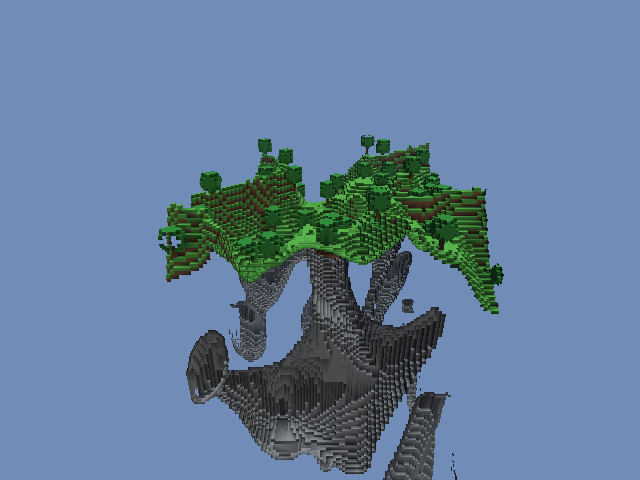
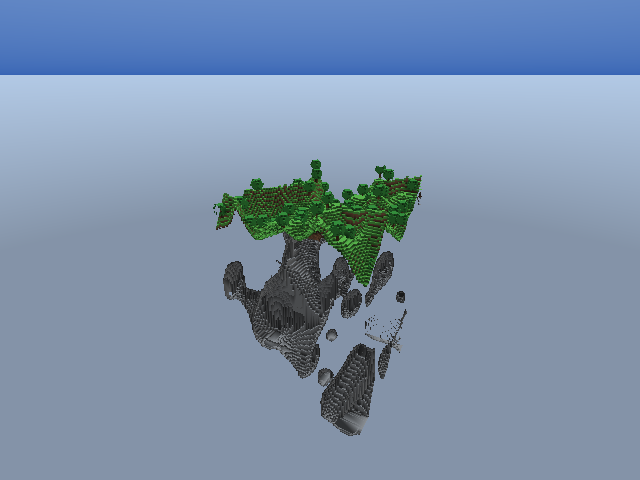
voxel: depth-shaded ocean, a real sky, and a coastline hero frame
The generated world read as a landmass floating in a void. Three separate
causes, all fixed here.

The fog band was scaled to the world height but was far too tight, so the
sea faded into the sky colour and the ocean disappeared into a flat field.
The band is now wide (fog starting at twice the world height and running
fourteen times it) and the strength is higher, so the sea stays blue out
to the horizon. The HLSL path and the reference rasterizer were changed
together, so the two still agree.

The sky was a single flat clear colour, which is what makes a frame read
as an object in a void rather than as a place. The reference renderer now
fills the background from the ray direction: a zenith-to-horizon gradient
above the horizon and a ground haze below it, so there is a horizon line
and the distance fog fades into exactly that colour.

The ocean was one flat blue per chunk, because greedy meshing merges a
whole water surface into a single quad and the quad carried one depth.
The mesher now samples the water depth at each of the quad's four corners
and shades each vertex from it, so the sea reads as a gradient from pale
turquoise in the shallows to deep blue offshore. The colour is a vertex
attribute, so the HLSL path interpolates it the same way.

Two new artifacts come out of the certification:

  sunshine_worldmap.png is a top-down map of the generated world, 1024
  blocks across, coloured by depth and elevation with relief shading.
[…]

diff --git a/tools/sunshine_world_test.cpp b/tools/sunshine_world_test.cpp
@@ -217,8 +217,8 @@ int main() {
     }
 
     VoxelCamera camera;
-    camera.position = Vec3{4.0f, 150.0f, 120.0f};
-    camera.target = Vec3{4.0f, 95.0f, 0.0f};
+    camera.position = Vec3{90.0f, 175.0f, 165.0f};
+    camera.target = Vec3{0.0f, 88.0f, 0.0f};
     camera.fovYDegrees = 68.0f;
     camera.zFar = 1200.0f;
 
@@ -269,6 +269,154 @@ int main() {
     RasterizeFrame(pointers, camera, kWidth, kHeight, pixels2, nullptr);
     Report("the rendered frame is stable", pixels == pixels2,
            std::to_string(pixels.size()) + " bytes compared");
+
+    // ---- 9. A top-down map of the generated world --------------------------
+    // The frame above only covers the chunks that were meshed, which is a
+    // tiny part of an island that is hundreds of blocks across. A top-down
+    // map samples the world directly, so it shows the whole landmass, the
+    // shoreline and the sea, and it is cheap enough to always produce.
+    {
+        constexpr uint32_t kMapSize = 512;
+        constexpr int32_t kMapSpan = 1024;  // world blocks covered by the map
+        const int32_t originX = -kMapSpan / 2;
+        const int32_t originZ = -kMapSpan / 2;
+        const int32_t step = kMapSpan / static_cast<int32_t>(kMapSize);
+
+        std::vector<uint8_t> map(static_cast<size_t>(kMapSize) * kMapSize * 4u, 0);
+        for (uint32_t my = 0; my < kMapSize; ++my) {
+            for (uint32_t mx = 0; mx < kMapSize; ++mx) {
+                const int32_t wx = originX + static_cast<int32_t>(mx) * step;
+                const int32_t wz = originZ + static_cast<int32_t>(my) * step;
+
+                const int32_t height = worldA.SurfaceHeight(wx, wz);
+                const int32_t sea = static_cast<int32_t>((64.0 / 100.0) * kChunkHeight + 0.5);
+
+                uint8_t r = 0;
+                uint8_t g = 0;
+                uint8_t b = 0;
+                if (height < sea) {
+                    // Water: the deeper, the darker.
+                    const int32_t depth = sea - height;
+                    const float t = std::min(1.0f, static_cast<float>(depth) / 20.0f);
+                    r = static_cast<uint8_t>((0.10f + 0.20f * t) * 255.0f);
+                    g = static_cast<uint8_t>((0.55f - 0.35f * t) * 255.0f);
+                    b = static_cast<uint8_t>((0.80f - 0.15f * t) * 255.0f);
+                } else {
+                    // Land: shaded by height and by the relief, so the
+                    // landmass reads as terrain rather than as a flat blob.
+                    const float t = std::min(1.0f, static_cast<float>(height - sea) / 40.0f);
+                    r = static_cast<uint8_t>((0.20f + 0.45f * t) * 255.0f);
+                    g = static_cast<uint8_t>((0.55f + 0.30f * t) * 255.0f);
+                    b = static_cast<uint8_t>((0.25f + 0.25f * t) * 255.0f);
+                    const int32_t neighbour = worldA.SurfaceHeight(wx + step, wz);
+                    if (neighbour < height) {
+                        const int32_t drop = height - neighbour;
+                        const float shade = std::min(0.45f, static_cast<float>(drop) / 40.0f);
+                        r = static_cast<uint8_t>(r * (1.0f - shade));
+                        g = static_cast<uint8_t>(g * (1.0f - shade));
+                        b = static_cast<uint8_t>(b * (1.0f - shade));
+                    }
+                }
+                const size_t p = (static_cast<size_t>(my) * kMapSize + mx) * 4u;
+                map[p + 0] = r;
+                map[p + 1] = g;
+                map[p + 2] = b;
+                map[p + 3] = 255u;
+            }
+        }
+        if (WritePng("sunshine_worldmap.png", map, kMapSize, kMapSize)) {
+            printf("[INFO] the world map was written to sunshine_worldmap.png (%d blocks across)\n",
+                   kMapSpan);
+        }
+    }
+
+    // ---- 10. A hero frame with real coverage --------------------------------
+    // The frame above meshes a small block of chunks, which on a world this
+    // size is a corner of one island and a lot of empty space. The hero
+    // frame meshes a wide region around a coastline, so the frame shows an
+    // island meeting the sea, which is what the world actually looks like.
+    {
+        const int32_t sea = static_cast<int32_t>((64.0 / 100.0) * kChunkHeight + 0.5);
+        // Find a coastline: a point that is water, with land a short way off.
+        int32_t coastX = 0;
+        int32_t coastZ = 0;
+        bool found = false;
+        for (int32_t radius = 40; radius <= 420 && !found; radius += 20) {
+            for (int32_t angle = 0; angle < 32 && !found; ++angle) {
+                const float radians = static_cast<float>(angle) * 3.14159265f / 16.0f;
+                const int32_t x = static_cast<int32_t>(static_cast<float>(radius) * std::cos(radians));
+                const int32_t z = static_cast<int32_t>(static_cast<float>(radius) * std::sin(radians));
+                if (worldA.SurfaceHeight(x, z) >= sea) continue;
+                // Is there land nearby?
+                for (int32_t d = 24; d <= 96; d += 24) {
+                    if (worldA.SurfaceHeight(x + d, z) >= sea ||
+                        worldA.SurfaceHeight(x - d, z) >= sea ||
+                        worldA.SurfaceHeight(x, z + d) >= sea ||
+                        worldA.SurfaceHeight(x, z - d) >= sea) {
+                        coastX = x;
+                        coastZ = z;
+                        found = true;
+                        break;
+                    }
+                }
+            }
+        }
+
+        if (found) {
+            constexpr int32_t kRadiusChunks = 12;  // 25 x 25 chunks = 400 blocks
+            std::vector<ChunkMesh> heroChunks;
+            std::vector<const ChunkMesh*> heroPointers;
+            heroChunks.reserve(static_cast<size_t>(kRadiusChunks * 2 + 1) * (kRadiusChunks * 2 + 1));
+            heroPointers.reserve(heroChunks.capacity());
+            const int32_t centreChunkX = coastX / kChunkWidth;
+            const int32_t centreChunkZ = coastZ / kChunkDepth;
+            for (int32_t cz = centreChunkZ - kRadiusChunks; cz <= centreChunkZ + kRadiusChunks; ++cz) {
+                for (int32_t cx = centreChunkX - kRadiusChunks; cx <= centreChunkX + kRadiusChunks; ++cx) {
+                    heroChunks.push_back(MeshChunk(worldA, cx, cz));
+                    heroPointers.push_back(&heroChunks.back());
+                }
+            }
+
+            VoxelCamera heroCamera;
+            heroCamera.position = Vec3{static_cast<float>(coastX) + 95.0f, 150.0f,
+                                       static_cast<float>(coastZ) + 95.0f};
+            heroCamera.target = Vec3{static_cast<float>(coastX), sea + 6.0f,
+                                     static_cast<float>(coastZ)};
+            heroCamera.fovYDegrees = 62.0f;
+            heroCamera.zFar = 2000.0f;
+
+            std::vector<uint8_t> heroPixels;
+            std::string heroError;
+            const bool heroOk = RasterizeFrame(heroPointers, heroCamera, 960, 540, heroPixels,
+                                                &heroError);
+            Report("the hero frame renders with a wide field of view", heroOk,
+                   heroOk ? (std::to_string(heroPointers.size()) + " chunks, 960x540")
+                          : heroError);
+            if (heroOk) {
+                if (WritePng("sunshine_hero.png", heroPixels, 960, 540)) {
+                    printf("[INFO] the hero frame was written to sunshine_hero.png\n");
+                }
+                // The hero frame must show sea AND land: that is the whole
+                // point of framing a coastline.
+                size_t heroWater = 0;
+                size_t heroLand = 0;
+                for (size_t i = 0; i < heroPixels.size(); i += 4) {
+                    const int r = heroPixels[i];
+                    const int g = heroPixels[i + 1];
+                    const int b = heroPixels[i + 2];
+                    if (b > r + 25 && b > 70) ++heroWater;
+                    else if (g > r + 10) ++heroLand;
+                }
+                const size_t heroTotal = 960u * 540u;
+                Report("the hero frame shows land meeting the sea",
+                       heroWater > heroTotal / 20 && heroLand > heroTotal / 20,
+                       "water=" + std::to_string(heroWater * 100 / heroTotal) + "% land=" +
+                           std::to_string(heroLand * 100 / heroTotal) + "%");
+            }
+        } else {
+            Report("a coastline was found", false, "no coastline within 420 blocks");
+        }
+    }
 
     printf("=== %s ===\n", g_failures == 0 ? "ALL CHECKS PASSED" : "CHECKS FAILED");
     if (g_failures != 0) {

diff --git a/src/voxel/VoxelMesher.cpp b/src/voxel/VoxelMesher.cpp
@@ -48,6 +48,20 @@ inline bool Opaque(uint8_t t) {
     return t != static_cast<uint8_t>(BlockType::Air) && t != static_cast<uint8_t>(BlockType::Water);
 }
 
+// The colour of water at a given depth: pale turquoise in the shallows,
+// deep blue offshore. The depth is sampled at the vertex, so the sea shades
+// as a gradient across the surface.
+inline uint32_t WaterColor(uint8_t depth) {
+    if (depth == 0) return 0xFF3A6FD8u;
+    const float t = std::min(1.0f, static_cast<float>(depth) / 14.0f);
+    const float r = 0.36f + (0.04f - 0.36f) * t;
+    const float g = 0.80f + (0.24f - 0.80f) * t;
+    const float b = 0.82f + (0.52f - 0.82f) * t;
+    return (static_cast<uint32_t>(r * 255.0f) << 16) |
+           (static_cast<uint32_t>(g * 255.0f) << 8) |
+           static_cast<uint32_t>(b * 255.0f);
+}
+
 } // namespace
 
 uint32_t BlockColor(BlockType type) {
@@ -106,6 +120,9 @@ ChunkMesh MeshChunk(const VoxelWorld& world, int32_t chunkX, int32_t chunkZ) {
         std::vector<uint8_t> maskBlock(static_cast<size_t>(uCells) * vCells, 0);
         std::vector<int8_t> maskSign(static_cast<size_t>(uCells) * vCells, 0);
         std::vector<uint8_t> maskAo(static_cast<size_t>(uCells) * vCells * 4, 0);
+        // The water depth under each cell, carried through the merge to the
+        // quad so the ocean can be shaded by depth.
+        std::vector<uint8_t> maskWater(static_cast<size_t>(uCells) * vCells, 0);
 
         // The block at (padded index along d, cell uu, cell vv).
         auto blockAt = [&](int32_t pd, int32_t uu, int32_t vv) -> uint8_t {
@@ -123,6 +140,7 @@ ChunkMesh MeshChunk(const VoxelWorld& world, int32_t chunkX, int32_t chunkZ) {
             std::fill(maskBlock.begin(), maskBlock.end(), 0);
             std::fill(maskSign.begin(), maskSign.end(), 0);
             std::fill(maskAo.begin(), maskAo.end(), 0);
+            std::fill(maskWater.begin(), maskWater.end(), 0);
 
             for (int32_t vv = 0; vv < vCells; ++vv) {
                 for (int32_t uu = 0; uu < uCells; ++uu) {
@@ -144,6 +162,25 @@ ChunkMesh MeshChunk(const VoxelWorld& world, int32_t chunkX, int32_t chunkZ) {
                     maskBlock[mi] = solid;
                     maskSign[mi] = sign;
                     ++mesh.faceCount;
+
+                    // The depth of the water below a top face, so the ocean
+                    // can be shaded from pale turquoise in the shallows to
+                    // deep blue offshore. Without this the ocean is one flat
+                    // blue field and the island reads as a landmass floating
+                    // in a void rather than as an island in a sea.
+                    uint8_t waterDepth = 0;
+                    if (d == 1 && solid == static_cast<uint8_t>(BlockType::Water) && sign > 0) {
+                        const int32_t cellY = pd - 1 - kOffset[1];
+                        for (int32_t depth = 0; depth < 32; ++depth) {
+                            const int32_t py = cellY - depth;
+                            if (py < 0) break;
+                            const uint8_t below = pad[static_cast<size_t>(Index(
+                                uu + kOffset[u], py, vv + kOffset[v]))];
+                            if (below != static_cast<uint8_t>(BlockType::Water)) break;
+                            waterDepth = static_cast<uint8_t>(depth + 1);
+                        }
+                    }
+                    maskWater[mi] = waterDepth;
 
                     // ---- Ambient occlusion ------------------------------------
                     // For each of the four corners of the face, sample the three
@@ -211,8 +248,20 @@ ChunkMesh MeshChunk(const VoxelWorld& world, int32_t chunkX, int32_t chunkZ) {
                     const uint8_t ao2 = maskAo[(static_cast<size_t>(vv + h - 1) * uCells + (uu + w - 1)) * 4 + 2];
                     const uint8_t ao3 = maskAo[(static_cast<size_t>(vv + h - 1) * uCells + uu) * 4 + 3];
 
-                    const uint32_t rgb = BlockColor(static_cast<BlockType>(block));
-
+                    uint32_t rgb = BlockColor(static_cast<BlockType>(block));
+                    // The water depth at each of the quad's four corners, so
+                    // the ocean shades as a smooth gradient rather than as a
+                    // flat tile per chunk. Greedy meshing merges a whole
+                    // water surface into one quad, and a single depth for
+                    // that quad makes the sea a patchwork of flat blues.
+                    const int32_t u0 = uu;
+                    const int32_t v0 = vv;
+                    const uint8_t waterDepth[4] = {
+                        maskWater[static_cast<size_t>(v0) * uCells + u0],
+                        maskWater[static_cast<size_t>(v0) * uCells + (u0 + w - 1)],
+                        maskWater[static_cast<size_t>(v0 + h - 1) * uCells + (u0 + w - 1)],
+                        maskWater[static_cast<size_t>(v0 + h - 1) * uCells + u0]};
+                    const bool isWater = (block == static_cast<uint8_t>(BlockType::Water));
                     // The four corners of the merged rectangle, in padded index
                     // space: the plane along d, and the cell extents along u/v.
                     int32_t cornerPos[4][3];
@@ -236,7 +285,7 @@ ChunkMesh MeshChunk(const VoxelWorld& world, int32_t chunkX, int32_t chunkZ) {
                         vert.nx = n[0];
                         vert.ny = n[1];
                         vert.nz = n[2];
-                        vert.color = rgb;
+                        vert.color = isWater ? WaterColor(waterDepth[c]) : rgb;
                         // Each vertex carries the AO of ITS OWN corner. For a
                         // merged quad the corner AO is taken from the cell that
                         // owns that corner of the rectangle.
@@ -270,6 +319,7 @@ ChunkMesh MeshChunk(const VoxelWorld& world, int32_t chunkX, int32_t chunkZ) {
                             const size_t mj = static_cast<size_t>(vv + j) * uCells + (uu + i);
                             maskBlock[mj] = 0;
                             maskSign[mj] = 0;
+                            maskWater[mj] = 0;
                         }
                     }
 

diff --git a/src/voxel/VoxelRasterizer.cpp b/src/voxel/VoxelRasterizer.cpp
@@ -30,15 +30,21 @@ struct Shading {
     float ambientScale = 1.0f;
     // The fog band scales with the world height, so it stays in proportion
     // when the column height changes.
-    float fogStart = static_cast<float>(kChunkHeight) * 1.0f;
-    float fogRange = static_cast<float>(kChunkHeight) * 3.0f;
-    float fogStrength = 0.85f;
+    // The fog has to be weak enough that the ocean stays blue out to the
+    // horizon. A tight band turns the sea into sky, which is what makes a
+    // landmass read as floating in a void.
+    float fogStart = static_cast<float>(kChunkHeight) * 2.0f;
+    float fogRange = static_cast<float>(kChunkHeight) * 14.0f;
+    float fogStrength = 0.9f;
 };
 
 // The same constants as the HLSL, so the two paths agree.
 const Vec3 kSkyColor{0.36f, 0.55f, 0.82f};
 const Vec3 kHorizonColor{0.70f, 0.79f, 0.90f};
 const Vec3 kSunColor{1.00f, 0.95f, 0.84f};
+// The zenith of the sky gradient, and the haze below the horizon.
+const Vec3 kZenithColor{0.20f, 0.38f, 0.70f};
+const Vec3 kGroundHaze{0.52f, 0.58f, 0.66f};
 
 // The clear colour the DX12 path uses.
 const Vec3 kClearColor{0.44f, 0.55f, 0.72f};
@@ -122,6 +128,45 @@ bool RasterizeFrame(const std::vector<const ChunkMesh*>& meshes,
         rgba[i * 4 + 3] = 255u;
     }
     std::vector<float> depth(static_cast<size_t>(width) * height, 1.0f);
+
+    // The sky is a gradient with a horizon, not a flat fill. A flat clear
+    // colour is what makes a frame read as "an object in a void" rather
+    // than as a place; the horizon line is what tells the eye where the
+    // ground ends and the sky begins.
+    {
+        const Vec3 forward = Normalize(camera.target - camera.position);
+        const Vec3 right = Normalize(Cross(forward, camera.up));
+        const Vec3 trueUp = Cross(right, forward);
+        const float tanHalf = std::tan(fov * 0.5f);
+        const float aspect = static_cast<float>(width) / static_cast<float>(height);
+
+        for (uint32_t py = 0; py < height; ++py) {
+            const float ndcY = 1.0f - (static_cast<float>(py) + 0.5f) / static_cast<float>(height) * 2.0f;
+            for (uint32_t px = 0; px < width; ++px) {
+                const float ndcX = (static_cast<float>(px) + 0.5f) / static_cast<float>(width) * 2.0f - 1.0f;
+                const Vec3 dir = Normalize(Vec3{
+                    forward.x + right.x * (ndcX * aspect * tanHalf) + trueUp.x * (ndcY * tanHalf),
+                    forward.y + right.y * (ndcX * aspect * tanHalf) + trueUp.y * (ndcY * tanHalf),
+                    forward.z + right.z * (ndcX * aspect * tanHalf) + trueUp.z * (ndcY * tanHalf)});
+
+                Vec3 sky;
+                if (dir.y >= 0.0f) {
+                    // Above the horizon: zenith to horizon.
+                    const float t = std::sqrt(Saturate(dir.y));
+                    sky = Mix(kZenithColor, kHorizonColor, t);
+                } else {
+                    // Below the horizon: the haze that the distance fog
+                    // fades into, so the two meet without a seam.
+                    sky = Mix(kHorizonColor, kGroundHaze, Saturate(-dir.y * 3.0f));
+                }
+                const size_t pixel = static_cast<size_t>(py) * width + px;
+                rgba[pixel * 4 + 0] = static_cast<uint8_t>(Saturate(sky.x) * 255.0f);
+                rgba[pixel * 4 + 1] = static_cast<uint8_t>(Saturate(sky.y) * 255.0f);
+                rgba[pixel * 4 + 2] = static_cast<uint8_t>(Saturate(sky.z) * 255.0f);
+                rgba[pixel * 4 + 3] = 255u;
+            }
+        }
+    }
 
     std::vector<ScreenVertex> screen;
     std::vector<bool> valid;

diff --git a/src/voxel/VoxelRenderer.cpp b/src/voxel/VoxelRenderer.cpp
@@ -682,9 +682,11 @@ bool VoxelRenderer::RenderFrame(const VoxelCamera& camera) {
     constants.params[0] = 1.0f;  // ambient scale
     // The fog band scales with the world height, matching the reference
     // rasterizer exactly.
-    constants.params[1] = static_cast<float>(kChunkHeight) * 1.0f;  // fog start
-    constants.params[2] = static_cast<float>(kChunkHeight) * 3.0f;  // fog range
-    constants.params[3] = 0.85f; // fog strength
+    // The fog band scales with the world height, and it is deliberately
+    // wide: a tight band turns the sea into sky.
+    constants.params[1] = static_cast<float>(kChunkHeight) * 2.0f;   // fog start
+    constants.params[2] = static_cast<float>(kChunkHeight) * 14.0f;  // fog range
+    constants.params[3] = 0.9f;  // fog strength
 
     if (constantCpu_) {
         memcpy(constantCpu_, &constants, sizeof(constants));
